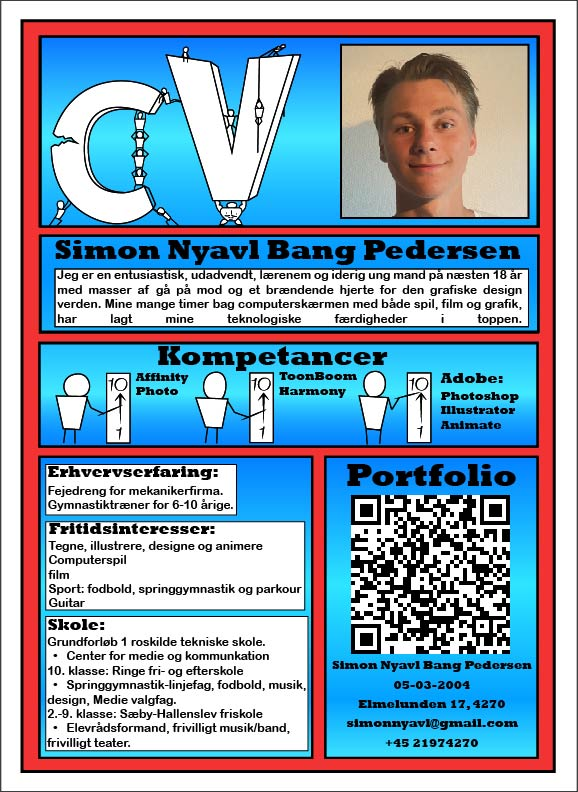
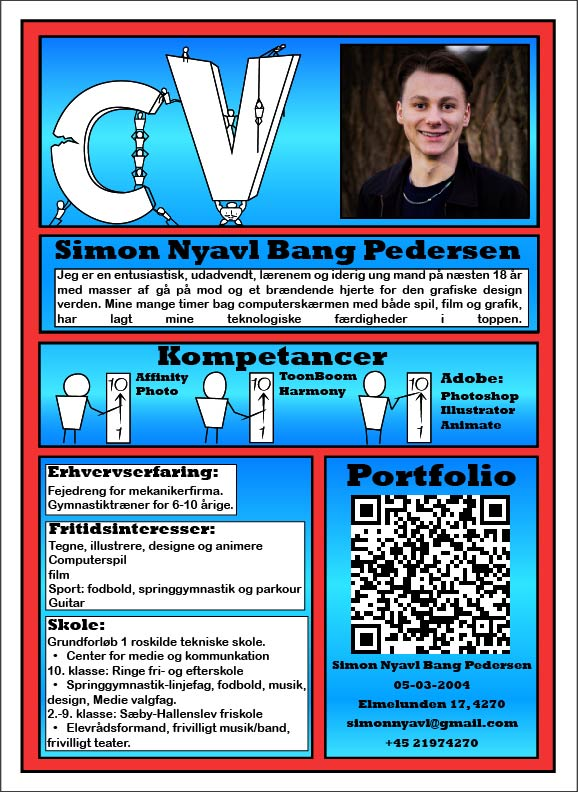
Add files via upload

Changed region(s): [[0.5917, 0.0303, 0.9343, 0.2727]]

diff --git a/index.html b/index.html
@@ -57,10 +57,10 @@
                 <article>
                     <figure>
                         <!-------------------------------------------------------------- Ændre til eget billede -->
-                        <img src="img/IMG_0559 (2).PNG" alt="">
+                        <img src="img/foto4.png" alt="">
                     </figure>
 
-                </article>
+                </article>  
             </main>
             <!--slut på main -->
             <!-- ASIDE -->
